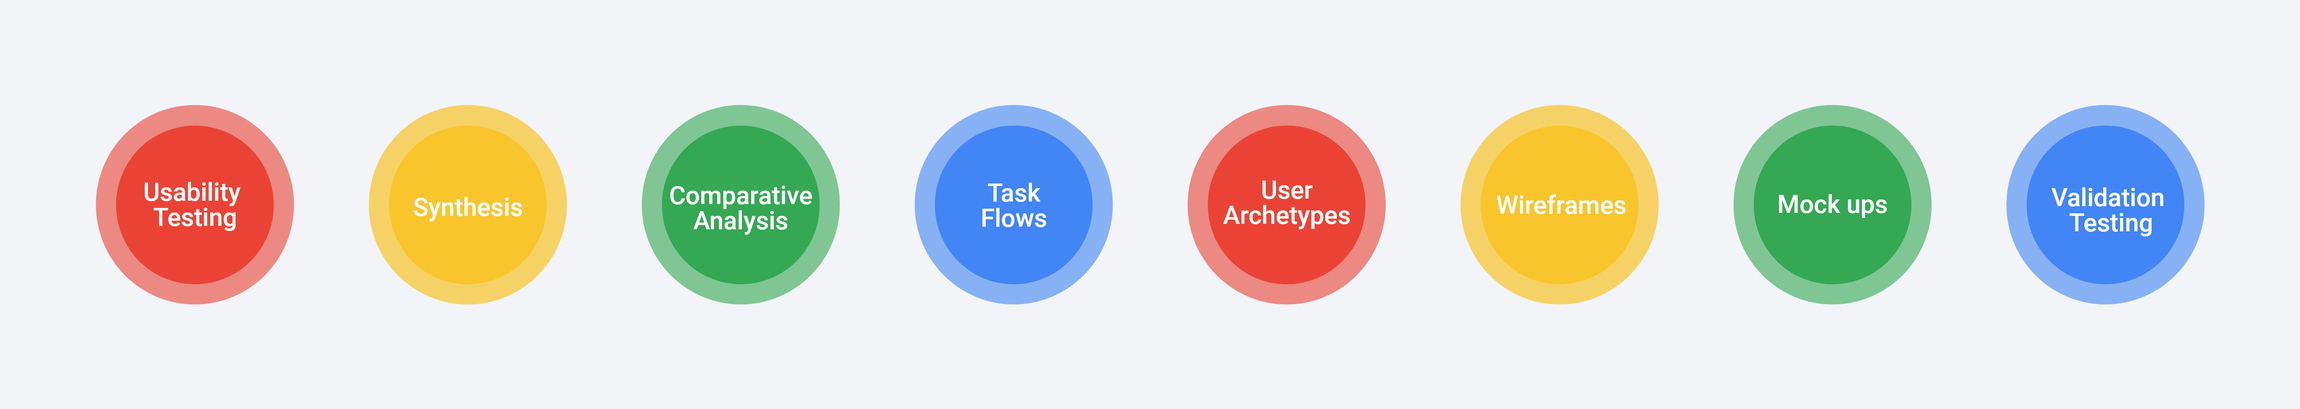
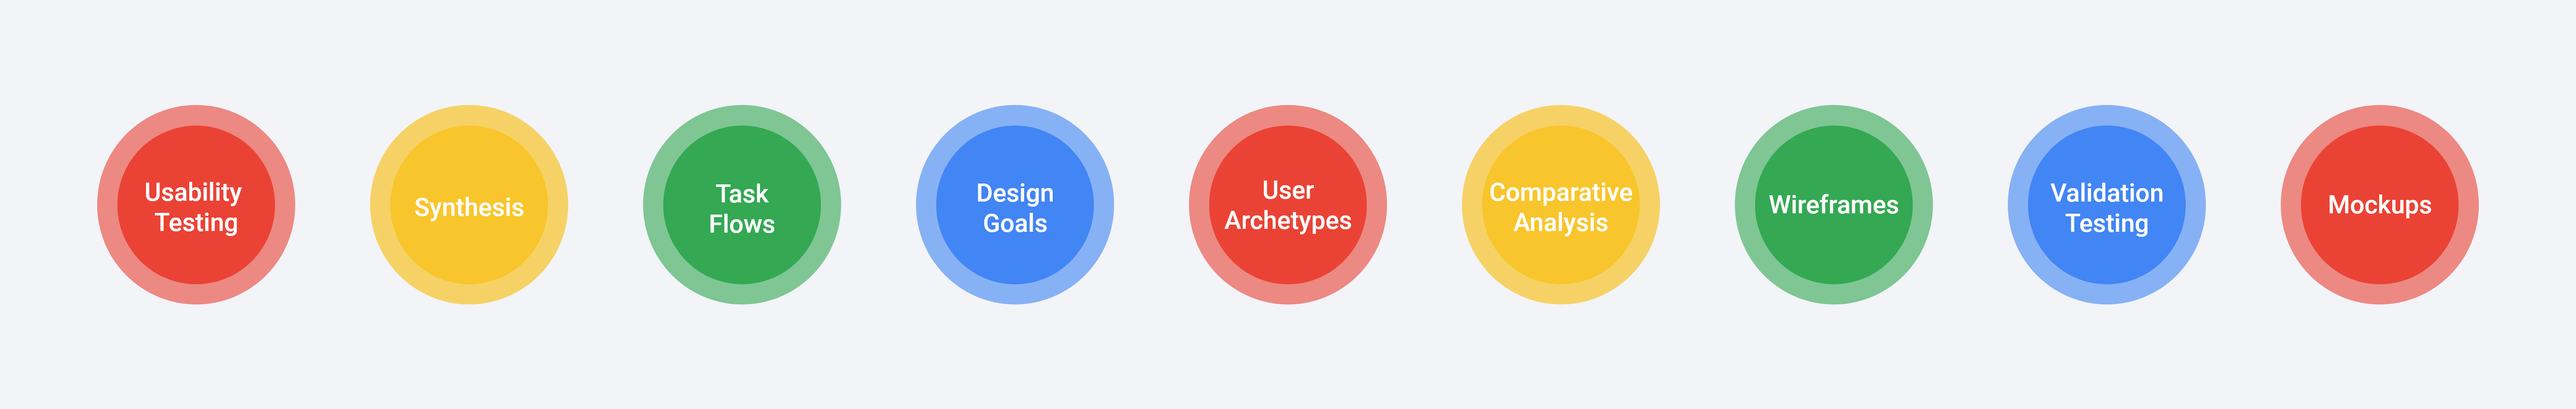
finalized the first reversion of the google jobs redesign project

diff --git a/google-jobs.html b/google-jobs.html
@@ -2,7 +2,7 @@
 <html>
     <head>
         <title>Google Jobs</title>
-        <link rel="icon" href="assets/logo.png">
+        <link rel="icon" href="assets/wavinghand.png">
         <link href="https://fonts.googleapis.com/css?family=Lato:400,700,900" rel="stylesheet">
         <link rel="stylesheet" href="https://maxcdn.bootstrapcdn.com/bootstrap/3.3.7/css/bootstrap.min.css" integrity="sha384-BVYiiSIFeK1dGmJRAkycuHAHRg32OmUcww7on3RYdg4Va+PmSTsz/K68vbdEjh4u" crossorigin="anonymous">
         <meta name="viewport" content="width=device-width, initial-scale=1">
@@ -13,59 +13,111 @@
         <div class="container">
             <div class="case-row">
                 <p class="title">Context</p>
-                <p class="description">Google recently created Jobs Board, a job aggregation tool that scrapes job postings found on various websites. Google Jobs aims to reduce the repetitive job postings that users see when visiting multiple job boards, and does a pretty good job (ha-ha) at that. When I was using the tool, I noticed a number of usability related issues that made the content both congested and, at points, overwhelming. As a designer, this made me wonder.</p>
+                <p class="description">Google recently released Google Jobs Board, a job aggregation tool which scrapes job postings from various websites. The tool aims to reduce repetitive job postings that users see when visiting multiple job boards, and does a pretty good job (ha-ha) at that. I noticed a number of usability issues when I was using the tool which made the content both congested and at points, overwhelming. As a designer, this made me wonder.</p>
                 <img class="img-resizing-block" src="assets/problem-statement.png">
             </div>
             <div class="case-row">
                 <p class="title">Process</p>
+                <p class="description">A quick brainstorming session helped me think of general approaches the problem without operationalizing any methods. I prevented committing myself to methods that sounded good on paper, but not in practice. I needed to test the usability of the product, so I opted for Nielson's user interface usability test. After I picked a starting point, the data and the need guided the model. This is the evolution of my process.</p>
                 <img class="img-resizing-block" src="assets/process.png">
             </div>
             <div class="case-row">
                 <p class="title">Usability Testing</p>
                 <img class="img-shadowing img-resizing-block" src="assets/heuristic.png"/>
-                <p class="description">I knew I needed to get out of my head as much as possible to validate or reject my initial assumptions. I conducted a usability test based on Jakob Nielson's 10 user interface heuristics with 5 participants and tasked participants with the following scenario.</p>
+                <p class="description">I needed a way to validate or reject my initial assumptions. To do this, I conducted a usability test based on Jakob Nielson's 10 user interface heuristics with 5 participants and tasked participants with the following scenario.</p>
                 <p class="emphasis-text">You are applying to your dream job on the Google Jobs Board</p>
-                <p class="description">I asked participants to provide a stream of consciousness as they acted out the prompt. In an attempt to mimic real life I did not provide hints unless asked, as participants are usually unable to ask the person next to them for help. This was strategic because it identified usability issues that would otherwise go unnoticed by receiving prompts.</pc>
+                <p class="description">I asked participants to provide a stream of consciousness as they acted out the prompt. In an attempt to mimic real life I did not provide hints unless asked, as people are usually unable to ask the person besides them for help. This was strategic because it identified usability issues that would otherwise go unnoticed by receiving prompts. I expected participants to have a positive experiences with a Google product, but most of them actually found the interface overwhelming. To my surprise, most participants did not use the job title and employer filter options to refine their query. Their initial impression upon entering these components was confusion due to the sheer amount of information displayed in each tab. Here are some of their other responses.</p>
+                <img class="img-resizing-block" src="assets/affinity-mapping-original.png">
+                <p class="description">Each section evaluates one heuristic violation, but the structure of the test comes a limitation - it does not map out all the issues related to one component. I needed a way to visualize these relationships.</p>
             </div>
             <div class="case-row">
                 <p class="title">Synthesis</p>
+                <p class="description">I started off by summarizing participant responses and assigning popular issues with a higher severity rating. This was super helpful in both prioritizing issues that needed to be solved first and locating the component responsible for the issue. From there, I diverged and converged groups. I assigned similar issues to one group, and began to converge by creating subgroups. Once this process was complete, four major groups emerged.</p>
                 <img class="img-resizing-block" src="assets/affinity-mapping.png"/>
             </div>
             <div class="case-row">
-                <p class=" title">Looking at Precedents</p>
-                <img class="img-resizing" src="assets/Comparative Analysis - Red and Green.png"/>
-            </div>
-            <div class="case-row">
-                <p class="title">User Flow</p>
+                <p class="title">Task Flow</p>
+                <p class="description">Now that I had each issue mapped out, I wanted to look at how the issues were created. Using a task flow really helped with identifying not only the interface related issues, but experience related issues as well. Taking a holistic approach insured my designs from any product pitfalls.</p>
                 <img class="img-resizing" src="assets/Task Flow - White Background.png"/>
             </div>
             <div class="case-row">
-                <p class="title">Archetypes</p>
-                <p class="description">Lorem Ipsum.</p>
-            </div>
-            <div class="container-fluid project-description-container">
-                <div class="row blue-container video-alignment">
-                    <span class="col-sm-5">
-                        <p class="video-title">Job Alerts</p>
-                        <p class="video-description">Anchored text filters out less relevant information and provides order and structure to large bodies of text</p>
-                    </span>
-                    <video playsinline autoplay muted loop class="col-sm-7 video-styling">
-                        <source src="assets/ALERTS.mp4" type="video/mp4">
-                    </video>
+                <p class="title">Design Goals</p>
+                <p class="description">Now that I had identified the problem in it's entirety, I came up with design goals which would help guide the rest of my designs. Having this as a point of reference provides focus, and assures the final product achieves these goals, and not other ones.</p>
+                <div class="goals-block">
+                    <div class="row">
+                        <img src="assets/filter.svg" class="col-sm-1 icon-styling">
+                        <div class="col-sm-11">
+                            <p class="goals-title">Organization</p>
+                            <p class="goals-description">Information is laid out in a logical order</p>
+                        </div>
+                    </div>
+                    <div class="row">
+                        <img src="assets/simplicity.svg" class="col-sm-1 icon-styling">
+                        <div class="col-sm-11">
+                            <p class="goals-title">Simplicity</p>
+                            <p class="goals-description">Only relevant information is displayed, as every piece of irrelevant information diminishes the value of relevant ones</p>
+                        </div>
+                    </div>
+                    <div class="row">
+                        <img src="assets/feedback.svg" class="col-sm-1 icon-styling">
+                        <div class="col-sm-11">
+                            <p class="goals-title">Feedback</p>
+                            <p class="goals-description">The design reflects the choices the user makes</p>
+                        </div>
+                    </div>
                 </div>
             </div>
-        <div class="container-fluid project-description-container">
+            <div class="case-row">
+                <p class="title">Archetypes</p>
+                <p class="description">I needed to establish users to ensure their needs were taken into consideration throughout the design process. Google's users are too demographically diverse to be condensed into a single (or even a collection of) personas. In cases like this, I define users based on the behavioural characteristics by using archetypes.</p>
+                <div class="archetypes-row">
+                    <div class="ar-block">
+                        <p class="archetype-title">Browser</p>
+                        <p class="archetype-description">Abby is employed, but leisurely browses job postings in hopes that she will find something that fits her needs better. She is reminded of the Jobs Board through alerts send to her email.</p>
+                    </div>
+                    <div class="ar-block">
+                        <p class="archetype-title">Inquirer</p>
+                        <p class="archetype-description">David is in need of a job and browses the job board on a daily basis until he finds employment. He uses more than one job bpard and applies to as many jobs as he can.</p>
+                    </div>
+                </div>
+                <p class="description">It's important to note that these archetypes are not fictional. In name, maybe, but the essence of these archetypes are based off of the usability tests that I ran, where I asked participants about their current job browsing habits and what factors prompt job hunting.</p>
+            </div>
+            <div class="case-row">
+                <p class="title">Comparative Analysis and Precedents</p>
+                <p class="description">I wanted to see how competing job boards tackled the problem of organizing information-rich content. I had to be really careful about analyzing the benefits of some features over others as other companies do not provide the same value proposition as Google's. Looking at precedents taught me an valuable lesson - that analyzing competing sites should be done cautiously as  value propositions differ from company to company. I was initially attached to Glassdoor's company rating feature and wanted to include the same feature in my wireframes. It was not until I revisited both my research and Google's value proposition(aggregation of data to reduce redundant information) that I realized rating companies does not align with Google's point of differentiation, and should not be reflected in the designs.</p>
+                <img class="img-resizing" src="assets/Comparative Analysis - Red and Green.png"/>
+            </div>
+            <div class="case-row">
+                <p class="title">Wireframes</p>
+                <p class="description">It can be really overwhelming when there are a lot of components to design, which is why I usually refer to atomic design when I need some structure. I started designing the smallest components of the page, which included the filter options interface and the icon information, before moving onto the larger ones, such as the job posting information and entry points.</p>
+                <p class="description">Every time I designed a new component I checked in with the design goals to make sure I was on track.</p>
+            </div>
+            <div class="case-row">
+                <p class="title">Validation Testing</p>
+                <p class="description">I started off with some rough sketches, beginning with paper prototyping to flush out user flow issues. From there, I was in a good position to begin the high fidelity mock ups. I made three iterations, prototyping interactions on Protopie and having different users test new changes.</p>
+                <img class="img-resizing" src="assets/Wireframes.png">
+            </div>
+            <div class="case-row">
+                <p class="title">Mockups</p>
+            </div>
+            <div class="row blue-container video-alignment">
+                <span class="col-sm-5">
+                    <p class="video-title">Job Alerts</p>
+                    <p class="video-description">A top level "Create an Alert" button means never miss out on your dream job again.</p>
+                </span>
+                <video playsinline autoplay muted loop class="col-sm-7 video-styling">
+                    <source src="assets/ALERTS.mp4" type="video/mp4">
+                </video>
+            </div>
             <div class="row blue-container video-alignment">
                 <span class="col-sm-5">
                     <p class="video-title">Job Postings</p>
-                    <p class="video-description">Anchored text filters out less relevant information and provides order and structure to large bodies of text</p>
+                    <p class="video-description">Postings with unified information makes browsing faster, so you can spend more time applying to jobs instead of finding them.</p>
                 </span>
                 <video playsinline autoplay muted loop class="col-sm-7 video-styling">
                     <source src="assets/SCROLLING.mp4" type="video/mp4">
                 </video>
             </div>
-        </div>
-        <div class="container-fluid project-description-container">
             <div class="row blue-container video-alignment">
                 <span class="col-sm-5 caption">
                     <p class="video-title">Job Description</p>
@@ -75,30 +127,31 @@
                         <source src="assets/JOB-DESC.mp4" type="video/mp4">
                 </video>
             </div>
-        </div>
-        <div class="container-fluid project-description-container">
             <div class="row blue-container video-alignment">
                 <span class="col-sm-5">
                     <p class="video-title">Job Filters</p>
-                    <p class="video-description">Anchored text filters out less relevant information and provides order and structure to a large body of text</p>
+                    <p class="video-description">Mapping one filter option to one dropdown menu enhances visibility - you can always see what filters you've applied.</p>
                 </span>
                 <video playsinline autoplay muted loop class="col-sm-7 video-styling">
                     <source src="assets/FILTERINGPT1.mp4" type="video/mp4">
                 </video>
             </div>
-        </div>
-        <div class="container-fluid project-description-container">
             <div class="row blue-container video-alignment">
                 <span class="col-sm-5">
                     <p class="video-title">Employer Filter</p>
-                    <p class="video-description">Anchored text filters out less relevant information and provides order and structure to a large body of text</p>
+                    <p class="video-description">The new employer menu maps companies to industries, creating a structure that allows you to filter companies based to your interests.</p>
                 </span>
                 <video playsinline autoplay muted loop class="col-sm-7 video-styling">
                     <source src="assets/EMPLOYER.mp4" type="video/mp4">
                 </video>
             </div>
-        </div>
-        </div>
+            <div class="case-row">
+                <p class="title">A Final Note</p>
+                <p class="description">This was a super challenging project. I was (and still am) intimidated to redesign a Google product as I have a lot of admiration for all of their projects and view them as the leading experts in all things product & UX. Through testing the product with others, I realized that not all products are perfect and that I had fallen for the argument from authority fallacy. Although there are a few things I would like to revisit or research further, I'm quite happy with the end result.</p>
+                <p class="description">Your personal preferences do not trump design documents. You have to comply with design guidelines. Since this is a Google product, it has to look like one. I made reference to the material design document, which outlines everything from color scheme to typography, to ensure the final product looked like it belonged in Google's portfolio.</p>
+                <p class="description">Don't forget to reference the research you've done at earlier stages. Research is not a checklist item that should be completed for the sake of doing research, the data matters and your design choices should reflect the insights - it needs to guide the final designs.</p>
+                <p class="emphasis-text">If you've made it this far, thanks for reading!</p>
+            </div>
         </div>
         <script src="https://code.jquery.com/jquery-3.3.1.min.js" integrity="sha256-FgpCb/KJQlLNfOu91ta32o/NMZxltwRo8QtmkMRdAu8=" crossorigin="anonymous"></script>
         <script src="js/script.js"></script>

diff --git a/css/jobs.css b/css/jobs.css
@@ -7,7 +7,7 @@
 
 .title-video {
     font-family: Lato;
-    weight: 400;
+    font-weight: 400;
     font-size: 3rem;
     text-align: right;
     color: white;
@@ -15,7 +15,8 @@
 
 .blue-container {
     background-color: #0086F0;
-    padding: 2rem;
+    padding: 4rem;
+    margin-bottom: 3rem;
 }
 
 .project-title {
@@ -27,10 +28,9 @@
 
 .title {
     font-family: Circular-Medium;
-    font-weight: 700;
     font-size: 3rem;
     color: black;
-    width: 75%;
+    width: 65%;
     display: block;
     margin: auto;
     margin-bottom: 1rem;
@@ -42,7 +42,7 @@
     font-size: 1.75rem;
     font-weight: 400;
     color: #38333B;
-    width: 75%;
+    width: 65%;
     display: block;
     margin: auto;
     padding-top: 1rem;
@@ -58,7 +58,7 @@
     font-weight: 700;
     font-size: 1.75rem;
     color: #38333B;
-    width: 75%;
+    width: 65%;
     display: block;
     margin: auto;
 }
@@ -66,6 +66,11 @@
 .video-styling {
     width: 58%;
     height: auto;
+    float: right;
+}
+
+.caption {
+    float: left;
 }
 
 .video-title {
@@ -76,13 +81,14 @@
 }
 
 .video-description {
+    width: 80%;
+    float: right;
     text-align: right;
     font-family: Lato;
     font-size: 2rem;
+    line-height: 2rem;
     font-weight: 400;
     color: white;
-    padding-left: 2rem;
-    margin-left: 2rem;
 }
 
 .video-alignment {
@@ -96,7 +102,8 @@
 
 .img-resizing {
     width: 100%;
-    margin: 2rem;
+    display: block;
+    margin: auto;
 }
 
 .sparkles-styling {
@@ -127,7 +134,7 @@
 }
 
 .img-resizing-block {
-    width: 75%;
+    width: 65%;
     display: block;
     margin: auto;
 }
@@ -135,5 +142,60 @@
 
 .video-blurring {
     box-shadow: 0px 0px 10px 10px rgb(35,145,241);
+}
+
+
+.img-resizing-block:hover {
+    transform: scale(1.5); 
+    transition: all .2s ease-in-out;
+}
+
+.goals-title {
+    font-family: Circular-Medium;
+    font-size: 2rem;
+    color: black;
+    margin: 0;
+}
+
+.goals-description {
+    font-family: Lato;
+    font-size: 1.75rem;
+    color: black;
+}
+
+.goals-block {
+    width: 65%;
+    display: block;
+    margin: auto;
+}
+
+.icon-styling {
+    display: block;
+    margin: auto;
+    margin-top: 0.5rem;
+}
+
+.archetypes-row {
+    width: 65%;
+    display: block;
+    margin: auto;
+    margin-top: 1rem;
+}
+
+.archetype-title {
+    font-family: Circular-Medium;
+    font-size: 2rem;
+}
+
+.archetype-description {
+    font-family: Lato;
+    font-weight: 400;
+    font-size: 1.75rem;
+}
+
+.ar-block {
+    width: 49%;
+    display: inline-block;
+    vertical-align: top;
 }
 

diff --git a/index.html b/index.html
@@ -15,7 +15,7 @@
                 <div class="row navbar-top">
                         <a href="index.html" class="alignment">
                                 <img src="assets/sparkles.png" class="sparkles-styling" alt="sparkles">
-                                <img src="assets/logo.png" class="name-styling" alt="logo">
+                                <img src="assets/name.png" class="name-styling" alt="logo">
                                 <img src="assets/sparkles.png" class="sparkles-styling" alt="sparkles">
                             </a>
                     <div class="nav-links alignment">
